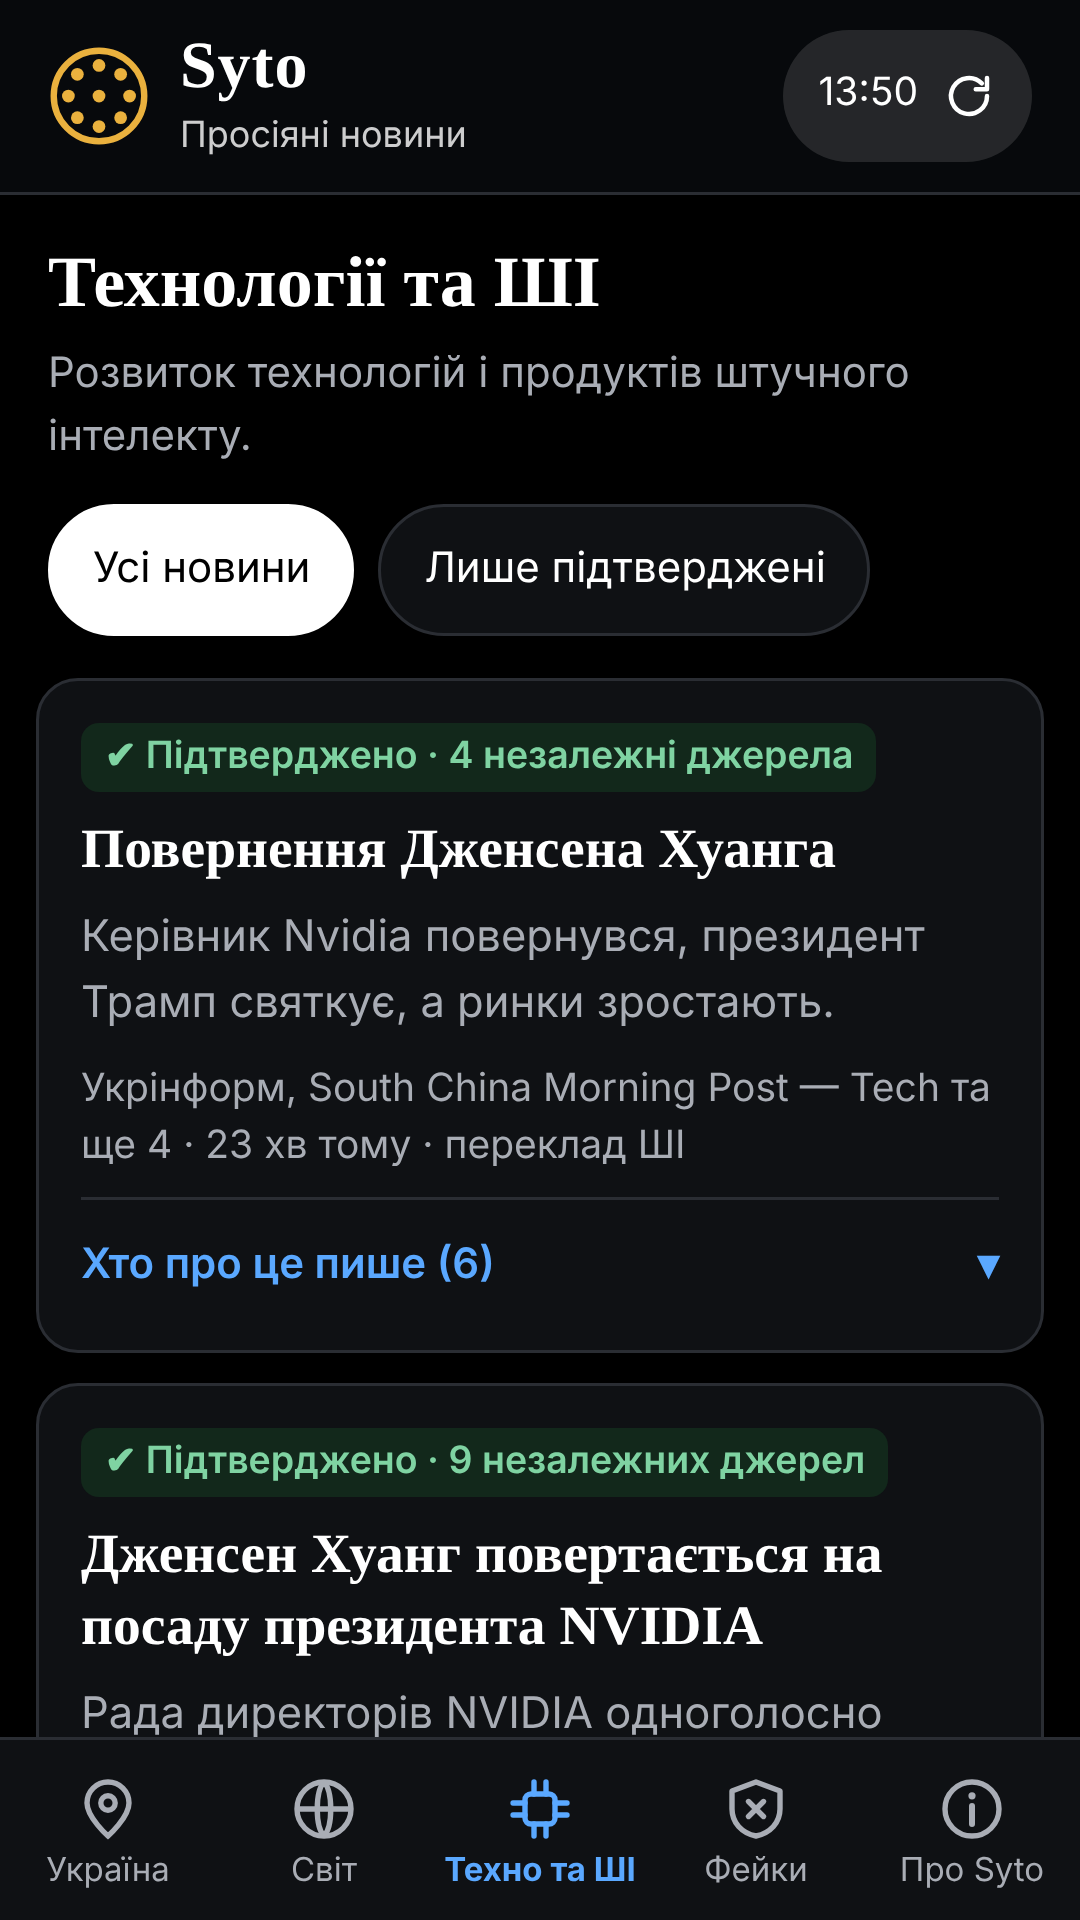
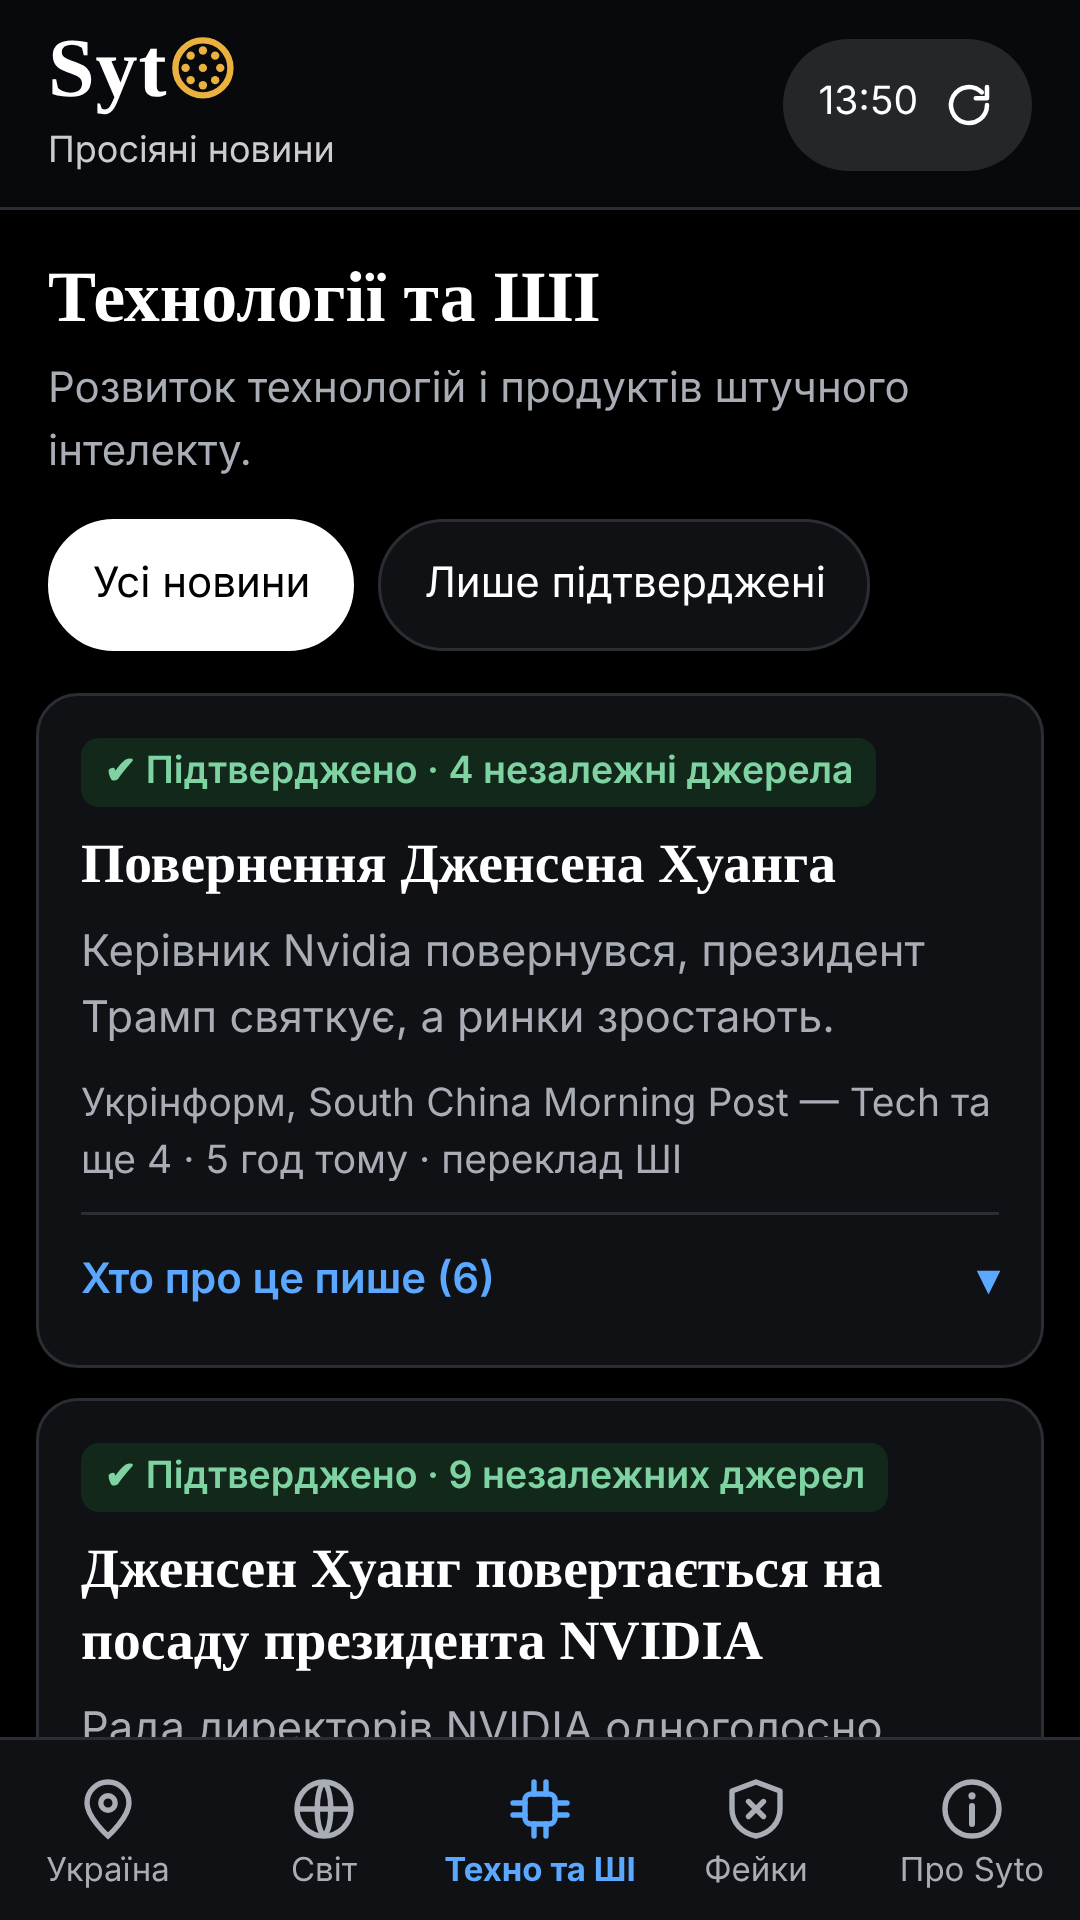
Бренд: логотип-сито замість літери «О» у назві SytO (шапка сайту, банер Google Play, скріни)
Claude-Session: https://claude.ai/code/session_01WZi5PupMixodLbqpYFA6jq

diff --git a/tools/store_feature_graphic.html b/tools/store_feature_graphic.html
@@ -1,0 +1,12 @@
+<!DOCTYPE html><html lang="uk"><head><meta charset="utf-8"><style>
+html,body{margin:0;width:1024px;height:500px;background:#000;color:#fff;font-family:Inter,"Segoe UI",Roboto,Arial,sans-serif}
+.w{display:flex;align-items:center;justify-content:center;text-align:center;height:100%;padding:0 80px;box-sizing:border-box;
+background:radial-gradient(circle at 50% 45%,#1a1408 0,#000 60%)}
+svg{width:230px;height:230px;color:#eab13e;flex:none}
+h1{font:700 150px/1 Georgia,"Times New Roman",serif;margin:0;white-space:nowrap}
+svg.o{width:.76em;height:.76em;margin-left:.03em;vertical-align:-.03em;color:#eab13e}
+.t{font-size:40px;color:#eab13e;margin:14px 0 22px;font-weight:600}
+.s{font-size:27px;color:#c9ccd2;line-height:1.35;max-width:640px;margin:0 auto}
+</style></head><body><div class="w">
+<div><h1>Syt<svg class="o" viewBox="0 0 32 32"><circle cx="16" cy="16" r="13.8" fill="none" stroke="currentColor" stroke-width="3.2"/><g fill="currentColor"><circle cx="16" cy="16" r="2.1"/><circle cx="16.00" cy="7.30" r="2.1"/><circle cx="22.15" cy="9.85" r="2.1"/><circle cx="24.70" cy="16.00" r="2.1"/><circle cx="22.15" cy="22.15" r="2.1"/><circle cx="16.00" cy="24.70" r="2.1"/><circle cx="9.85" cy="22.15" r="2.1"/><circle cx="7.30" cy="16.00" r="2.1"/><circle cx="9.85" cy="9.85" r="2.1"/></g></svg></h1><div class="t">Просіяні новини</div><div class="s">Що підтвердили кілька незалежних редакцій — без реклами й реєстрації</div></div>
+</div></body></html>

diff --git a/site/index.html b/site/index.html
@@ -17,9 +17,8 @@
 <body>
 <header class="top">
   <div class="brand">
-    <svg class="logo" viewBox="0 0 32 32" aria-hidden="true"><circle cx="16" cy="16" r="14.2" fill="none" stroke="currentColor" stroke-width="2"/><g fill="currentColor"><circle cx="16" cy="16" r="2"/><circle cx="16.00" cy="6.40" r="2"/><circle cx="22.79" cy="9.21" r="2"/><circle cx="25.60" cy="16.00" r="2"/><circle cx="22.79" cy="22.79" r="2"/><circle cx="16.00" cy="25.60" r="2"/><circle cx="9.21" cy="22.79" r="2"/><circle cx="6.40" cy="16.00" r="2"/><circle cx="9.21" cy="9.21" r="2"/></g></svg>
     <div>
-      <h1>Syto</h1>
+      <h1 aria-label="Syto">Syt<svg class="logo-o" viewBox="0 0 32 32" aria-hidden="true"><circle cx="16" cy="16" r="13.8" fill="none" stroke="currentColor" stroke-width="3.2"/><g fill="currentColor"><circle cx="16" cy="16" r="2.1"/><circle cx="16.00" cy="7.30" r="2.1"/><circle cx="22.15" cy="9.85" r="2.1"/><circle cx="24.70" cy="16.00" r="2.1"/><circle cx="22.15" cy="22.15" r="2.1"/><circle cx="16.00" cy="24.70" r="2.1"/><circle cx="9.85" cy="22.15" r="2.1"/><circle cx="7.30" cy="16.00" r="2.1"/><circle cx="9.85" cy="9.85" r="2.1"/></g></svg></h1>
       <p class="tagline">Просіяні новини</p>
     </div>
   </div>

diff --git a/site/styles.css b/site/styles.css
@@ -16,8 +16,9 @@ a{color:var(--accent)}
 .top{position:sticky;top:0;z-index:5;border-bottom:1px solid var(--line);background:var(--top);color:var(--top-ink);display:flex;align-items:center;justify-content:space-between;gap:12px;
   padding:calc(10px + env(safe-area-inset-top)) max(16px, env(safe-area-inset-right)) 10px max(16px, env(safe-area-inset-left))}
 .brand{display:flex;align-items:center;gap:10px;min-width:0}
-.logo{width:34px;height:34px;flex:none;color:#eab13e}
-h1{font:700 22px/1 var(--serif);margin:0;letter-spacing:.3px}
+h1{font:700 28px/1 var(--serif);margin:0;letter-spacing:.3px;white-space:nowrap}
+/* логотип-сито замість літери «О» у назві SytO */
+.logo-o{display:inline-block;width:.76em;height:.76em;margin-left:.03em;vertical-align:-.03em;color:#eab13e}
 .tagline{margin:3px 0 0;font-size:12px;opacity:.8;white-space:nowrap;overflow:hidden;text-overflow:ellipsis}
 .refresh{display:flex;align-items:center;gap:8px;background:rgba(255,255,255,.12);color:inherit;border:0;border-radius:999px;padding:8px 12px;font:inherit;font-size:13px;min-height:44px;cursor:pointer;white-space:nowrap}
 .refresh svg{width:18px;height:18px}
